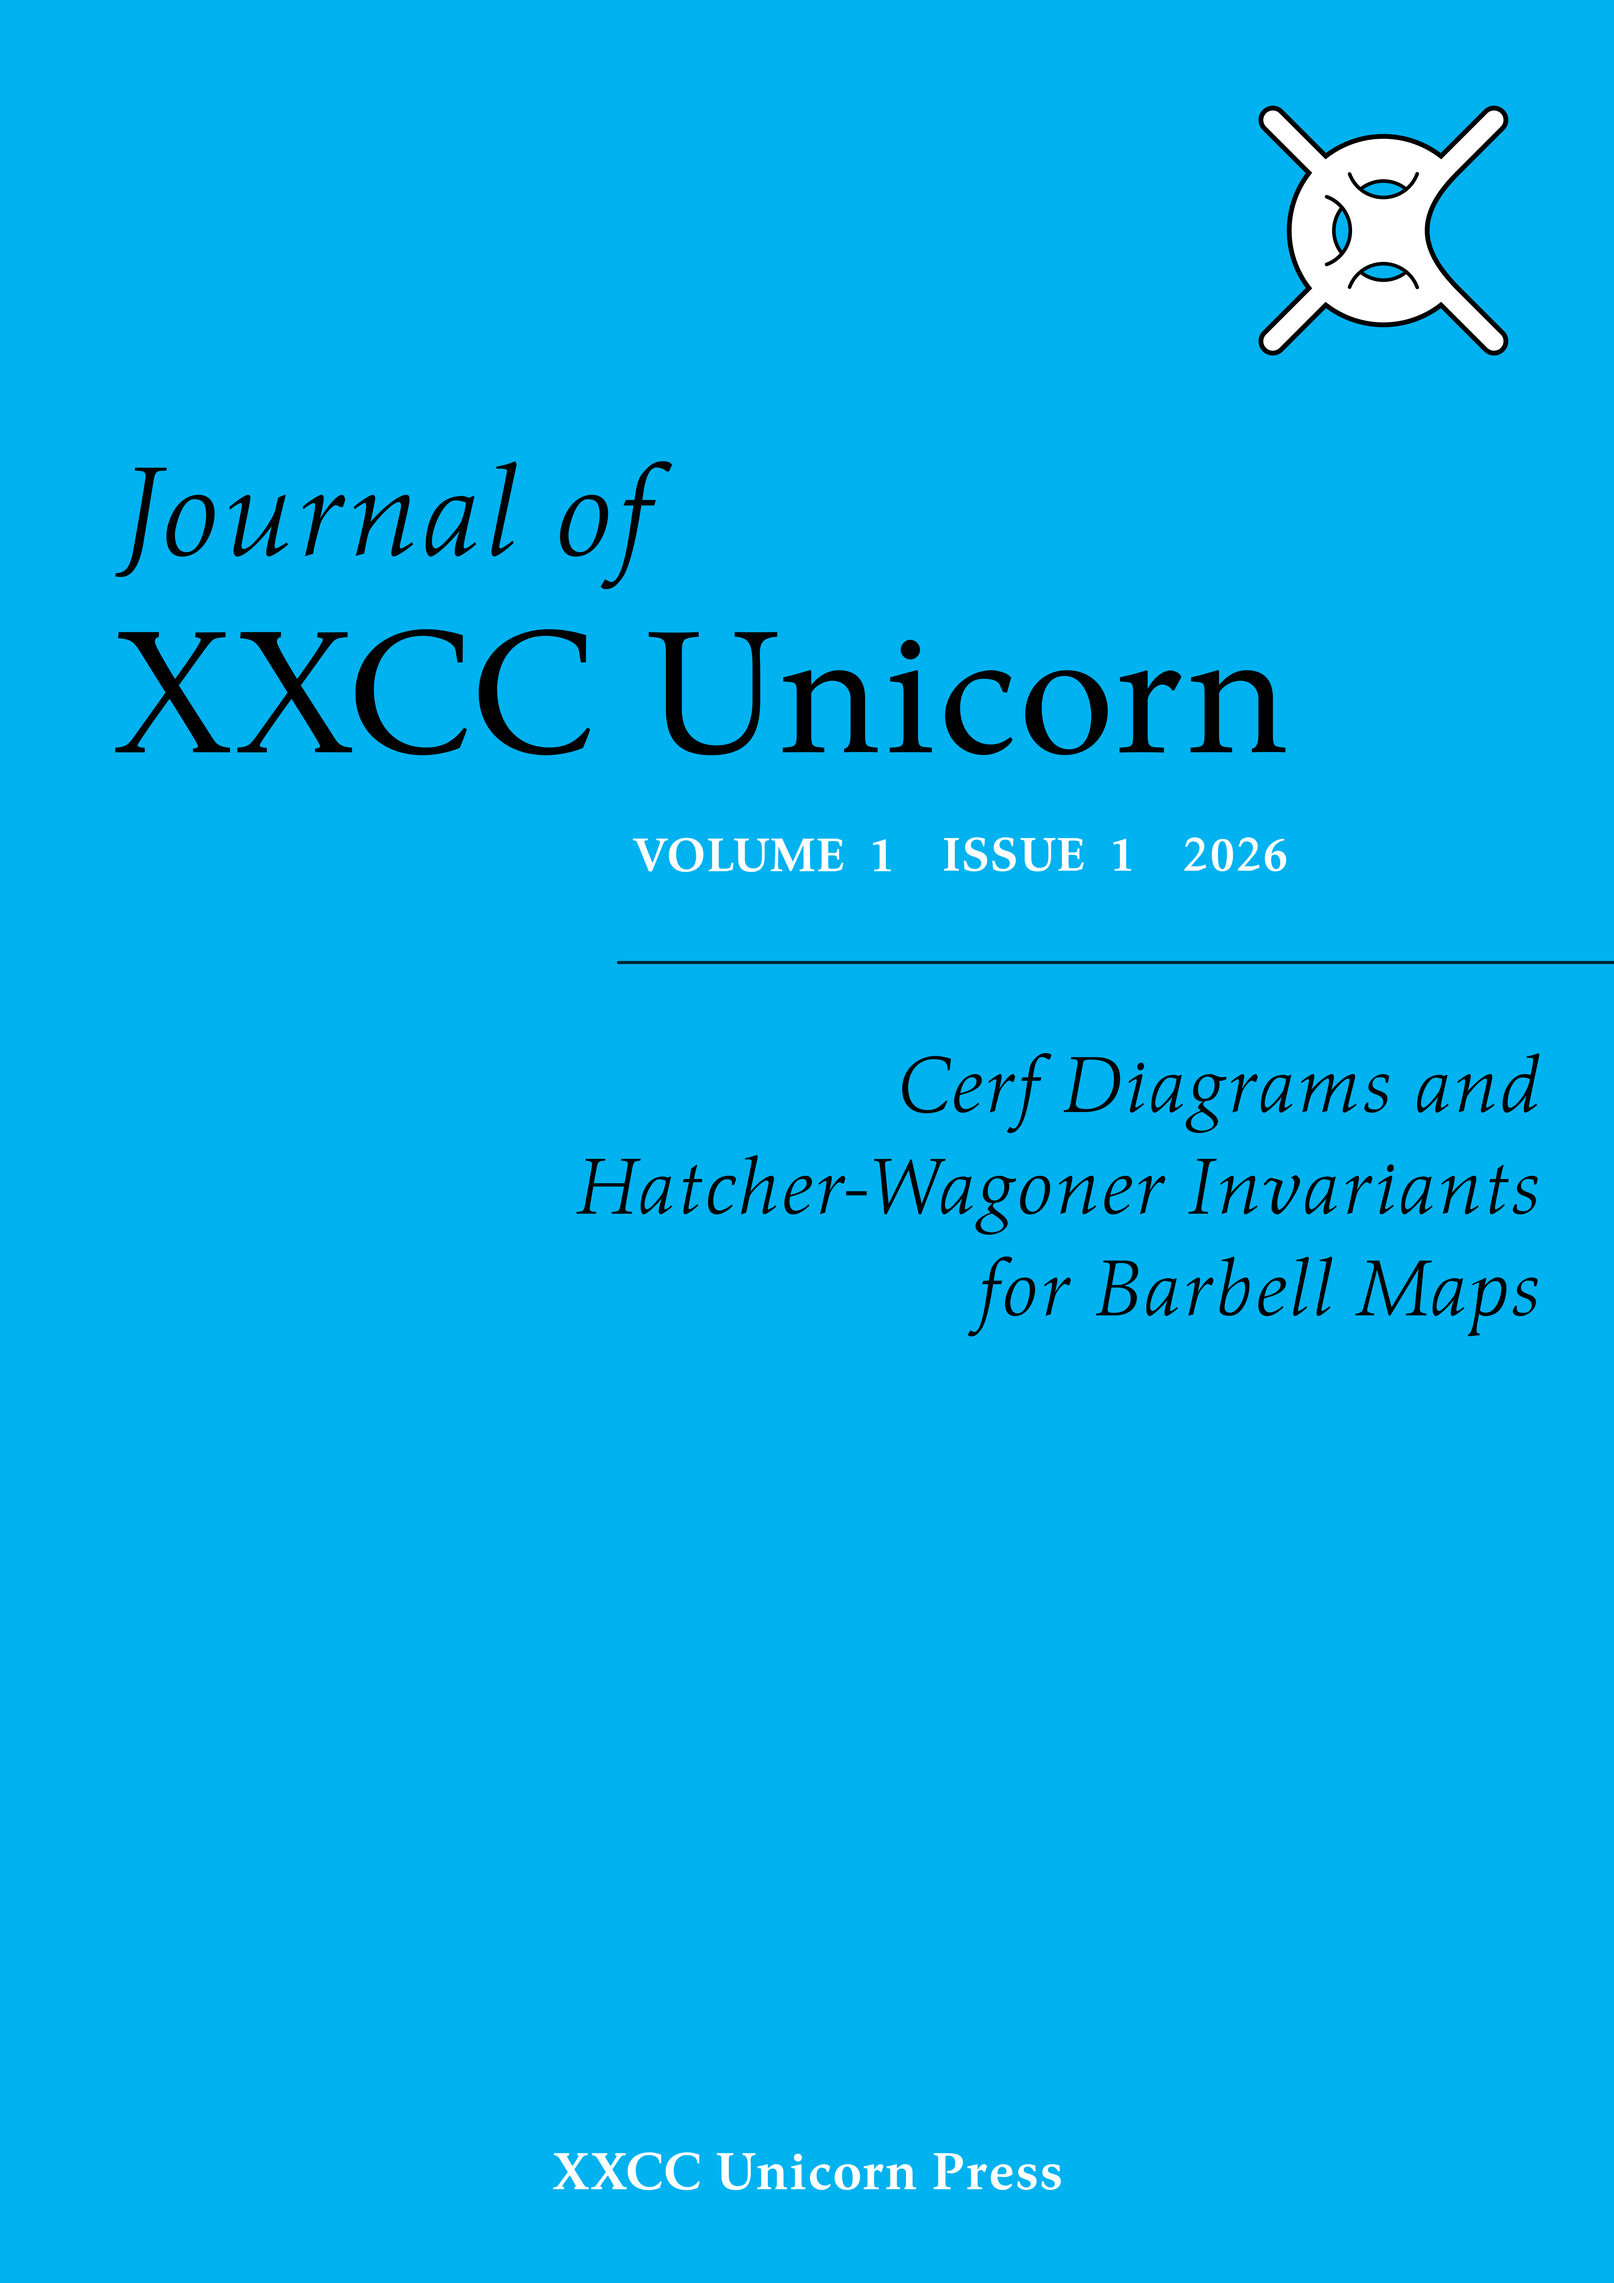
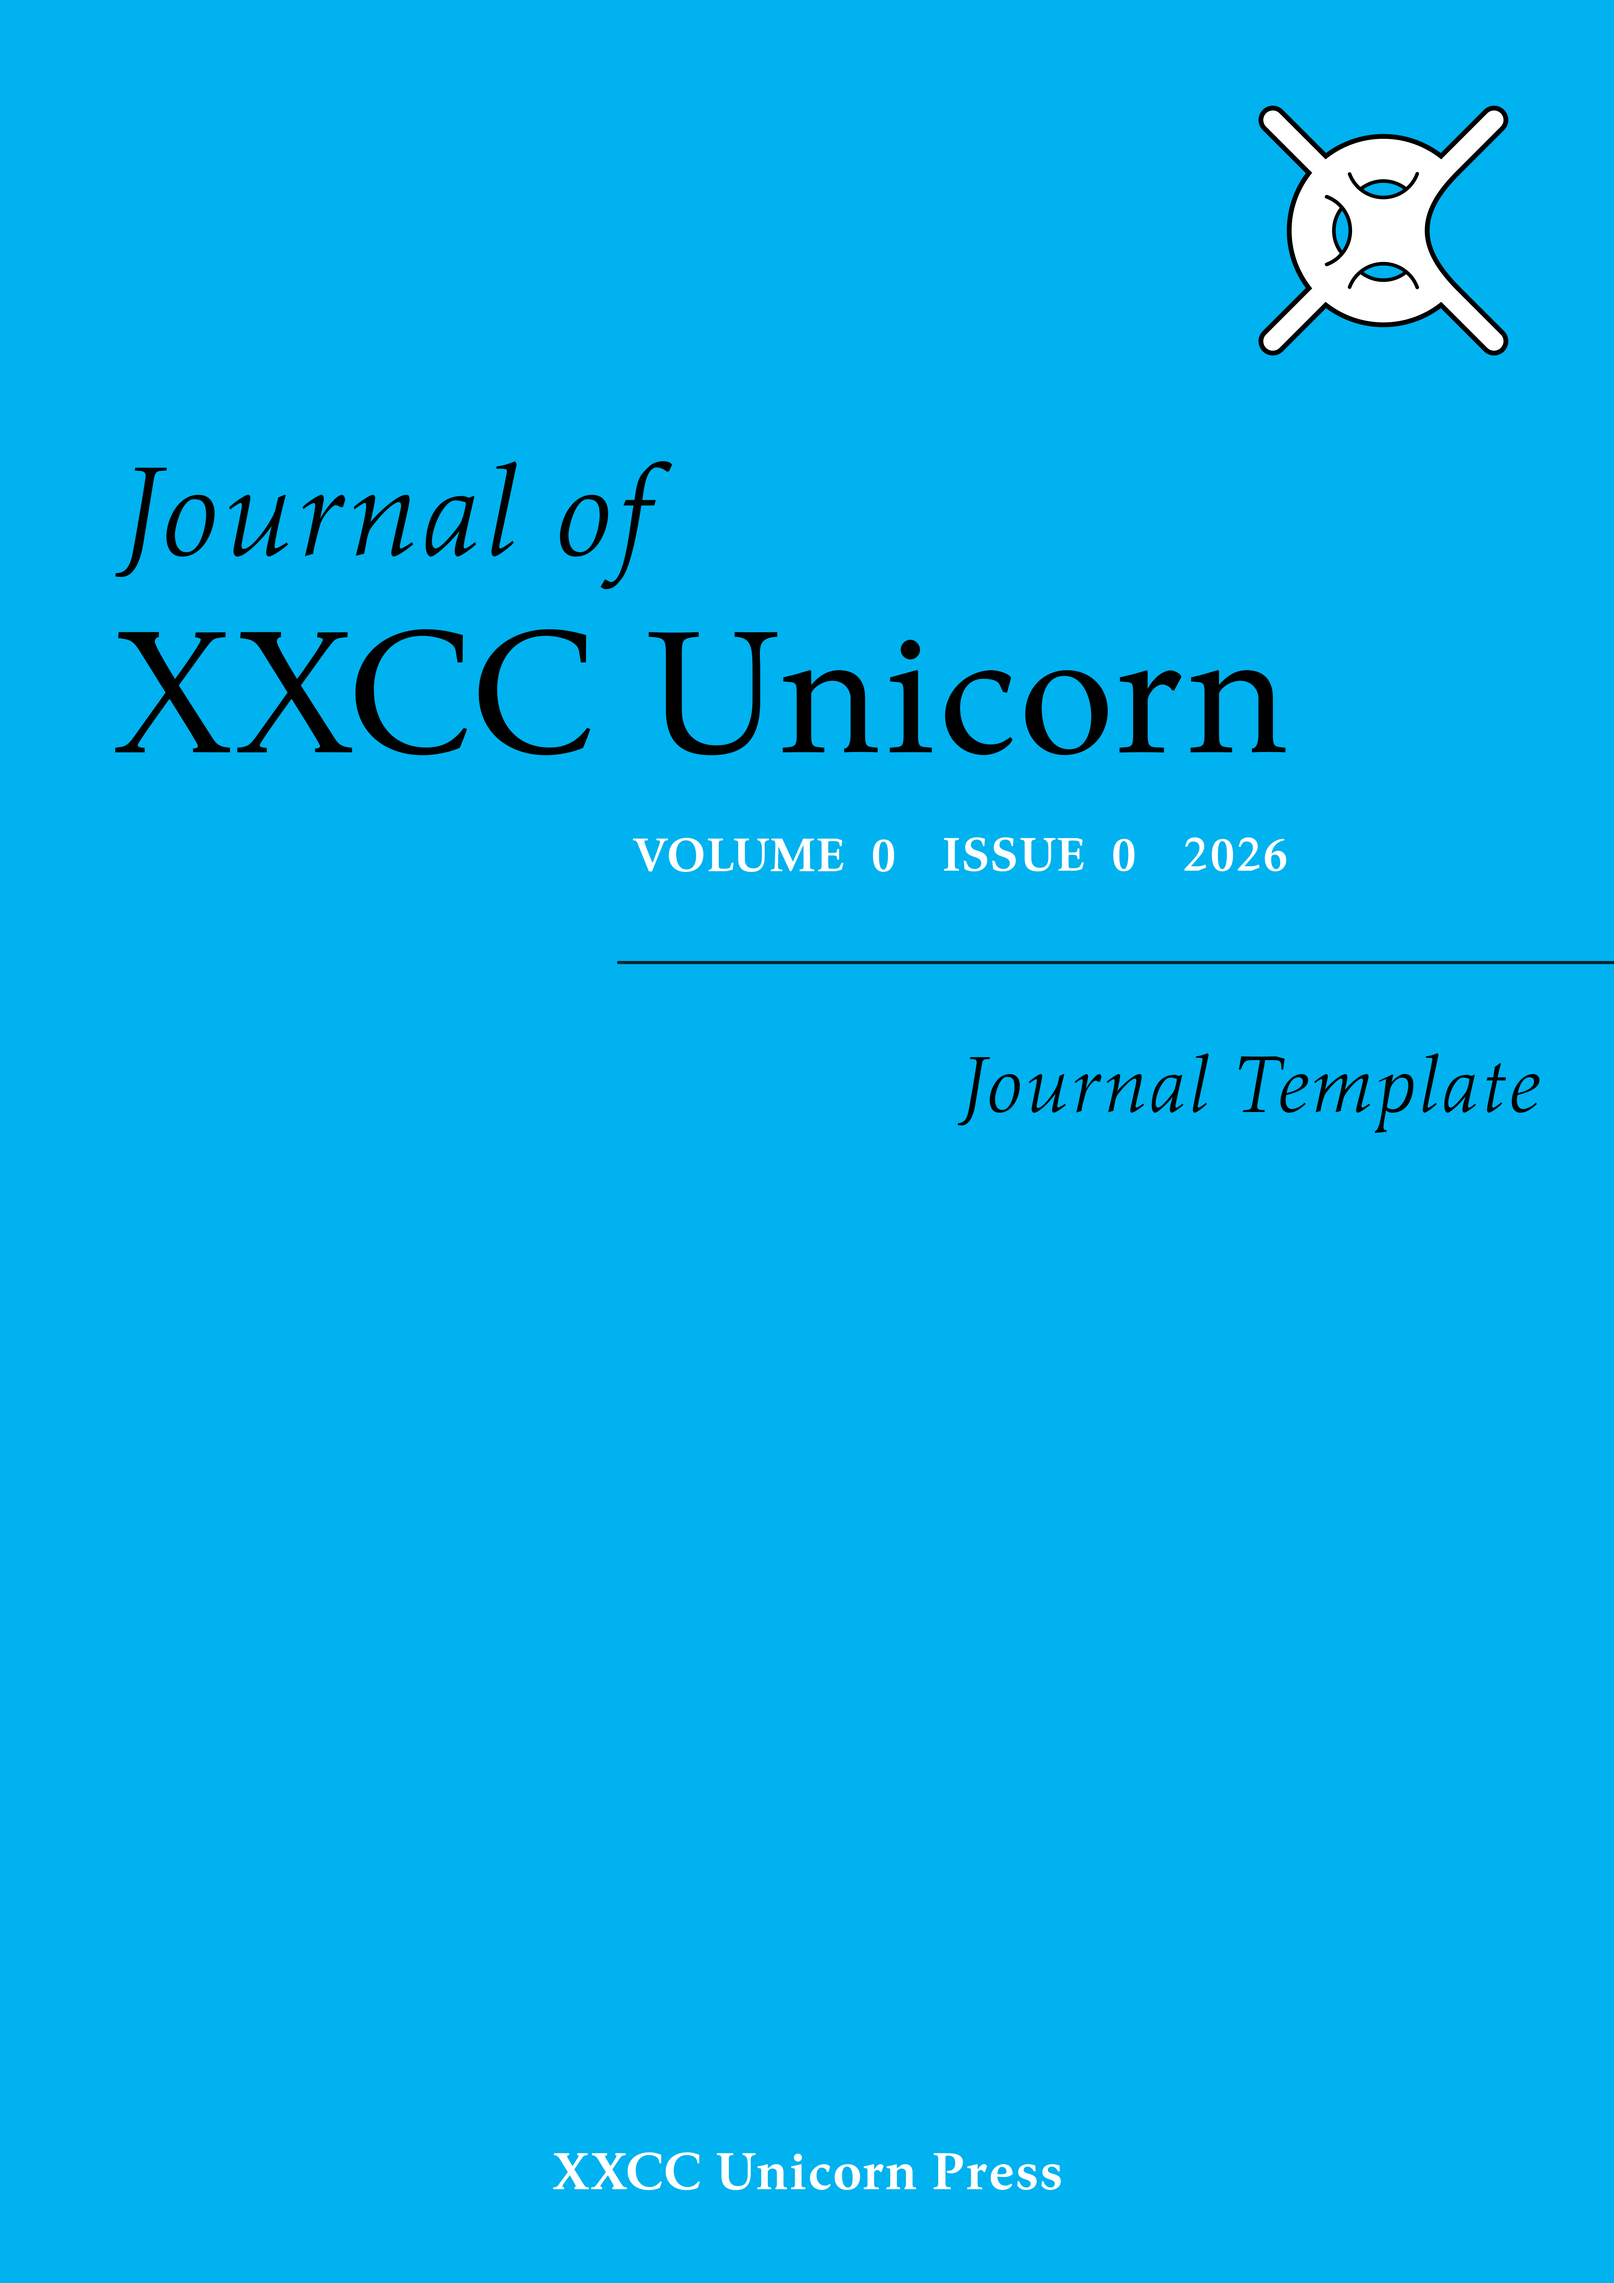
Update meta data

diff --git a/preamble/meta.tex b/preamble/meta.tex
@@ -1,13 +1,13 @@
 %% Set up the meta data here.
 
 % the title displayed on the title page
-\newcommand{\doctitle}{Example Thesis}
+\newcommand{\doctitle}{Journal Template}
 
 % the title written in the PDF metadata (pure text, no formatting)
-\newcommand{\doctitlestring}{Example Thesis}
+\newcommand{\doctitlestring}{Journal Template}
 
 % the author
-\newcommand{\docauthor}{Xiayu Tan}
+\newcommand{\docauthor}{Yifei Fan}
 
 % the publisher
 \newcommand{\docpublisher}{XXCC Unicorn Press}
